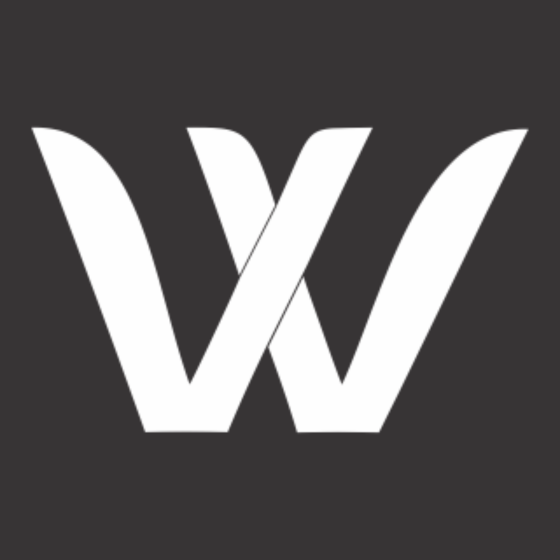
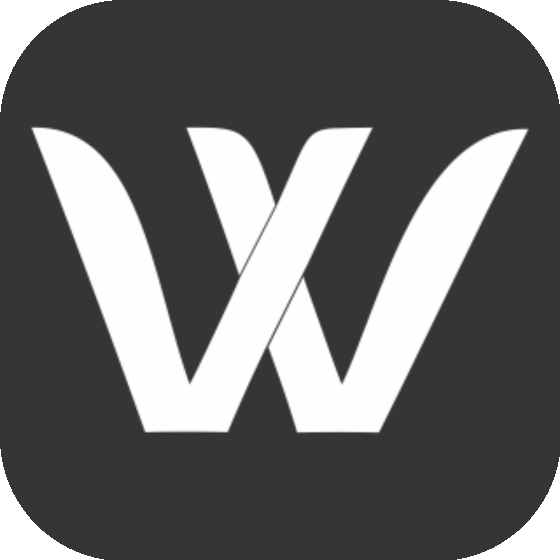
Check

diff --git a/index.html b/index.html
@@ -2,11 +2,12 @@
 <html lang="en">
   <head>
     <meta charset="UTF-8" />
-    <link rel="icon" type="image/svg+xml" href="/favicon.svg" />
+    <link rel="icon" type="image/png" href="/WW_3.png" />
+    <link rel="apple-touch-icon" href="/WW_3.png" />
     <meta name="viewport" content="width=device-width, initial-scale=1.0" />
     
     <!-- SEO Optimization -->
-    <title>Websight Works | Premium Digital Product Studio</title>
+    <title>Websight Works</title>
     <meta name="description" content="Websight Works is an elite creative engineering studio designing and developing award-winning digital experiences, custom web apps, and luxury websites." />
     
     <!-- DNS Preconnect hints for fonts -->

diff --git a/src/components/HeroSequence.tsx b/src/components/HeroSequence.tsx
@@ -363,8 +363,8 @@ export default function HeroSequence({ images }: HeroSequenceProps) {
       <style>{`
         .hero-fixed-logo-wrapper {
           position: absolute;
-          bottom: 3.2rem;
-          right: 10.2rem;
+          bottom: 2.6rem;
+          right: 9.4rem;
           transform: translate(50%, 50%);
           z-index: 10;
           pointer-events: none;
@@ -407,8 +407,8 @@ export default function HeroSequence({ images }: HeroSequenceProps) {
 
         @media (max-width: 1400px) {
           .hero-fixed-logo-wrapper {
-            bottom: 3.2rem;
-            right: 10.2rem;
+            bottom: 2.6rem;
+            right: 9.4rem;
           }
         }
 

diff --git a/src/components/SEO.tsx b/src/components/SEO.tsx
@@ -21,8 +21,15 @@ export default function SEO({
 
   useEffect(() => {
     // 1. Update Document Title
-    const formattedTitle = `${title} | Websight Works`;
+    const formattedTitle = title === 'Websight Works' ? 'Websight Works' : `${title} | Websight Works`;
     document.title = formattedTitle;
+
+    // Ensure favicon is updated to WW_3.png
+    let faviconLink = document.querySelector('link[rel="icon"]');
+    if (faviconLink) {
+      faviconLink.setAttribute('href', '/WW_3.png');
+      faviconLink.setAttribute('type', 'image/png');
+    }
 
     // Helper to get or create a head element
     const getOrCreateMeta = (attrName: string, attrValue: string) => {

diff --git a/src/pages/Home.tsx b/src/pages/Home.tsx
@@ -117,7 +117,7 @@ export default function Home() {
   return (
     <>
       <SEO 
-        title="Premium Digital Product Studio" 
+        title="Websight Works" 
         description="Websight Works is an elite creative engineering studio designing and developing award-winning digital experiences, custom web apps, and luxury websites."
       />
 
